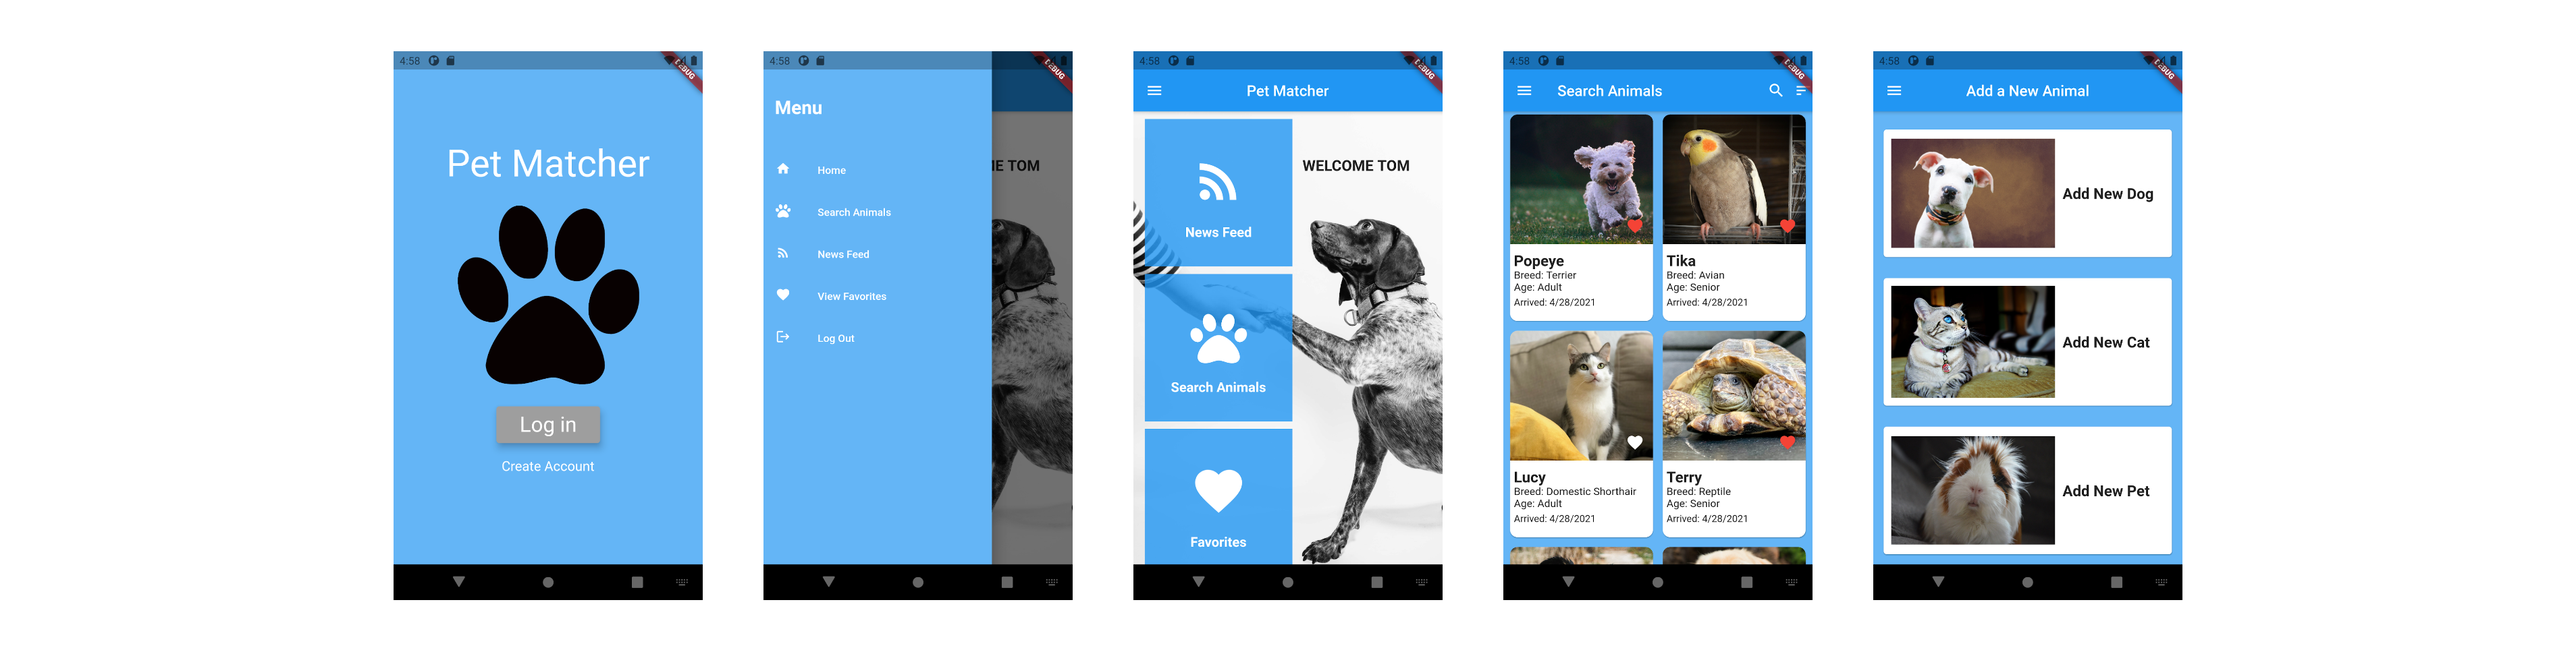
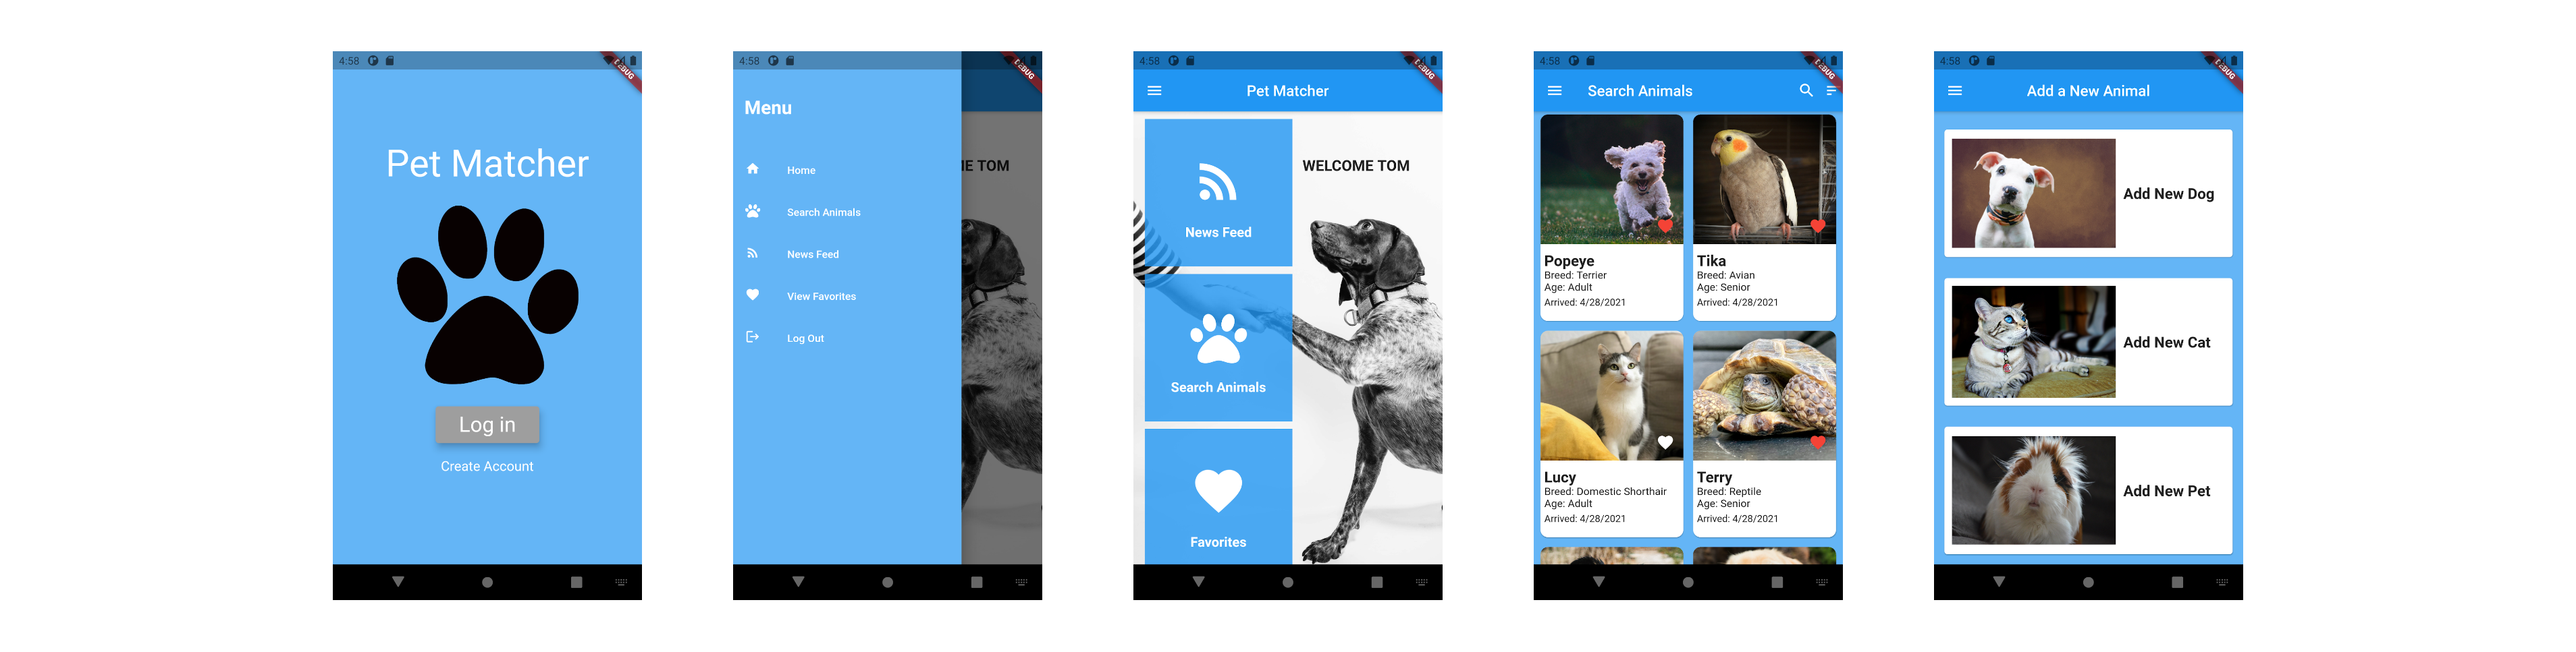
more title image adjustment

Changed region(s): [[0.5613, 0.062, 0.8732, 0.9307], [0.1247, 0.062, 0.343, 0.9307], [0.343, 0.062, 0.4366, 0.9307]]

diff --git a/docs/html/title_image.html b/docs/html/title_image.html
@@ -6,7 +6,7 @@
 
 <body>
 
-<div id="capture-container" style="display: flex; justify-content: center; gap: 60px; padding: 2% 10%;">
+<div id="capture-container" style="display: flex; justify-content: center; gap: 90px; padding: 2% 10%;">
     <img src="../assets/intro_a.png" alt="Image 1" style="width: 15%; height: auto;">
     <img src="../assets/intro_d.png" alt="Image 1" style="width: 15%; height: auto;">
     <img src="../assets/intro_b.png" alt="Image 2" style="width: 15%; height: auto;">
